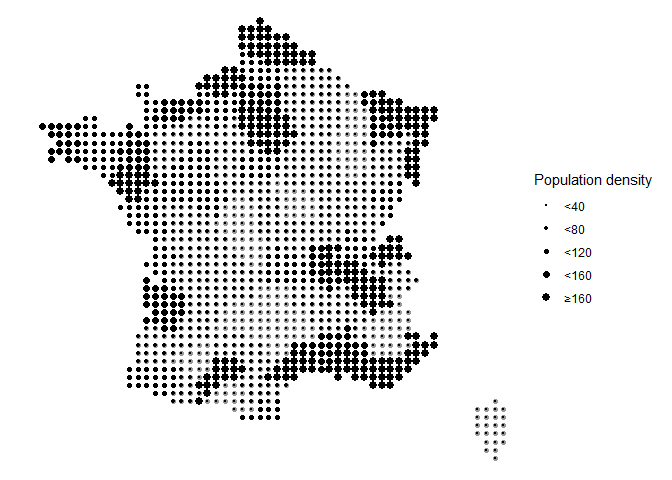
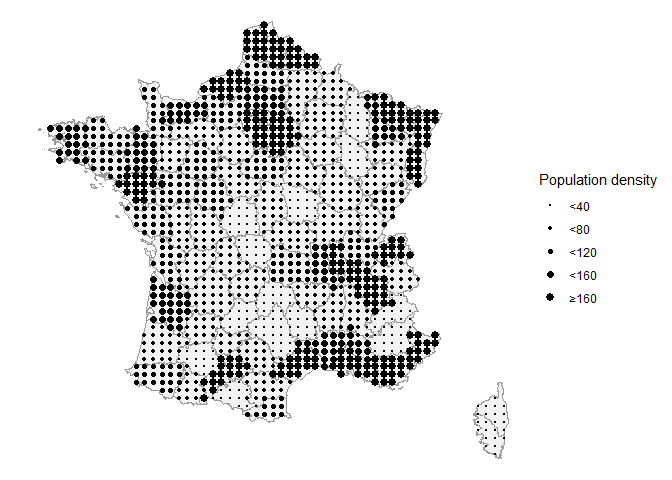
update vignette

diff --git a/README.md b/README.md
@@ -108,7 +108,7 @@ departments_valued<-make_points(
 ggplot(departments_valued,aes(size=as.factor(density_cl)))+
   # French departments as background
   geom_sf(
-    departments_valued,
+    france_departments,
     mapping=aes(geometry=geometry),
     fill="grey95",color="grey60",
     inherit.aes=FALSE
